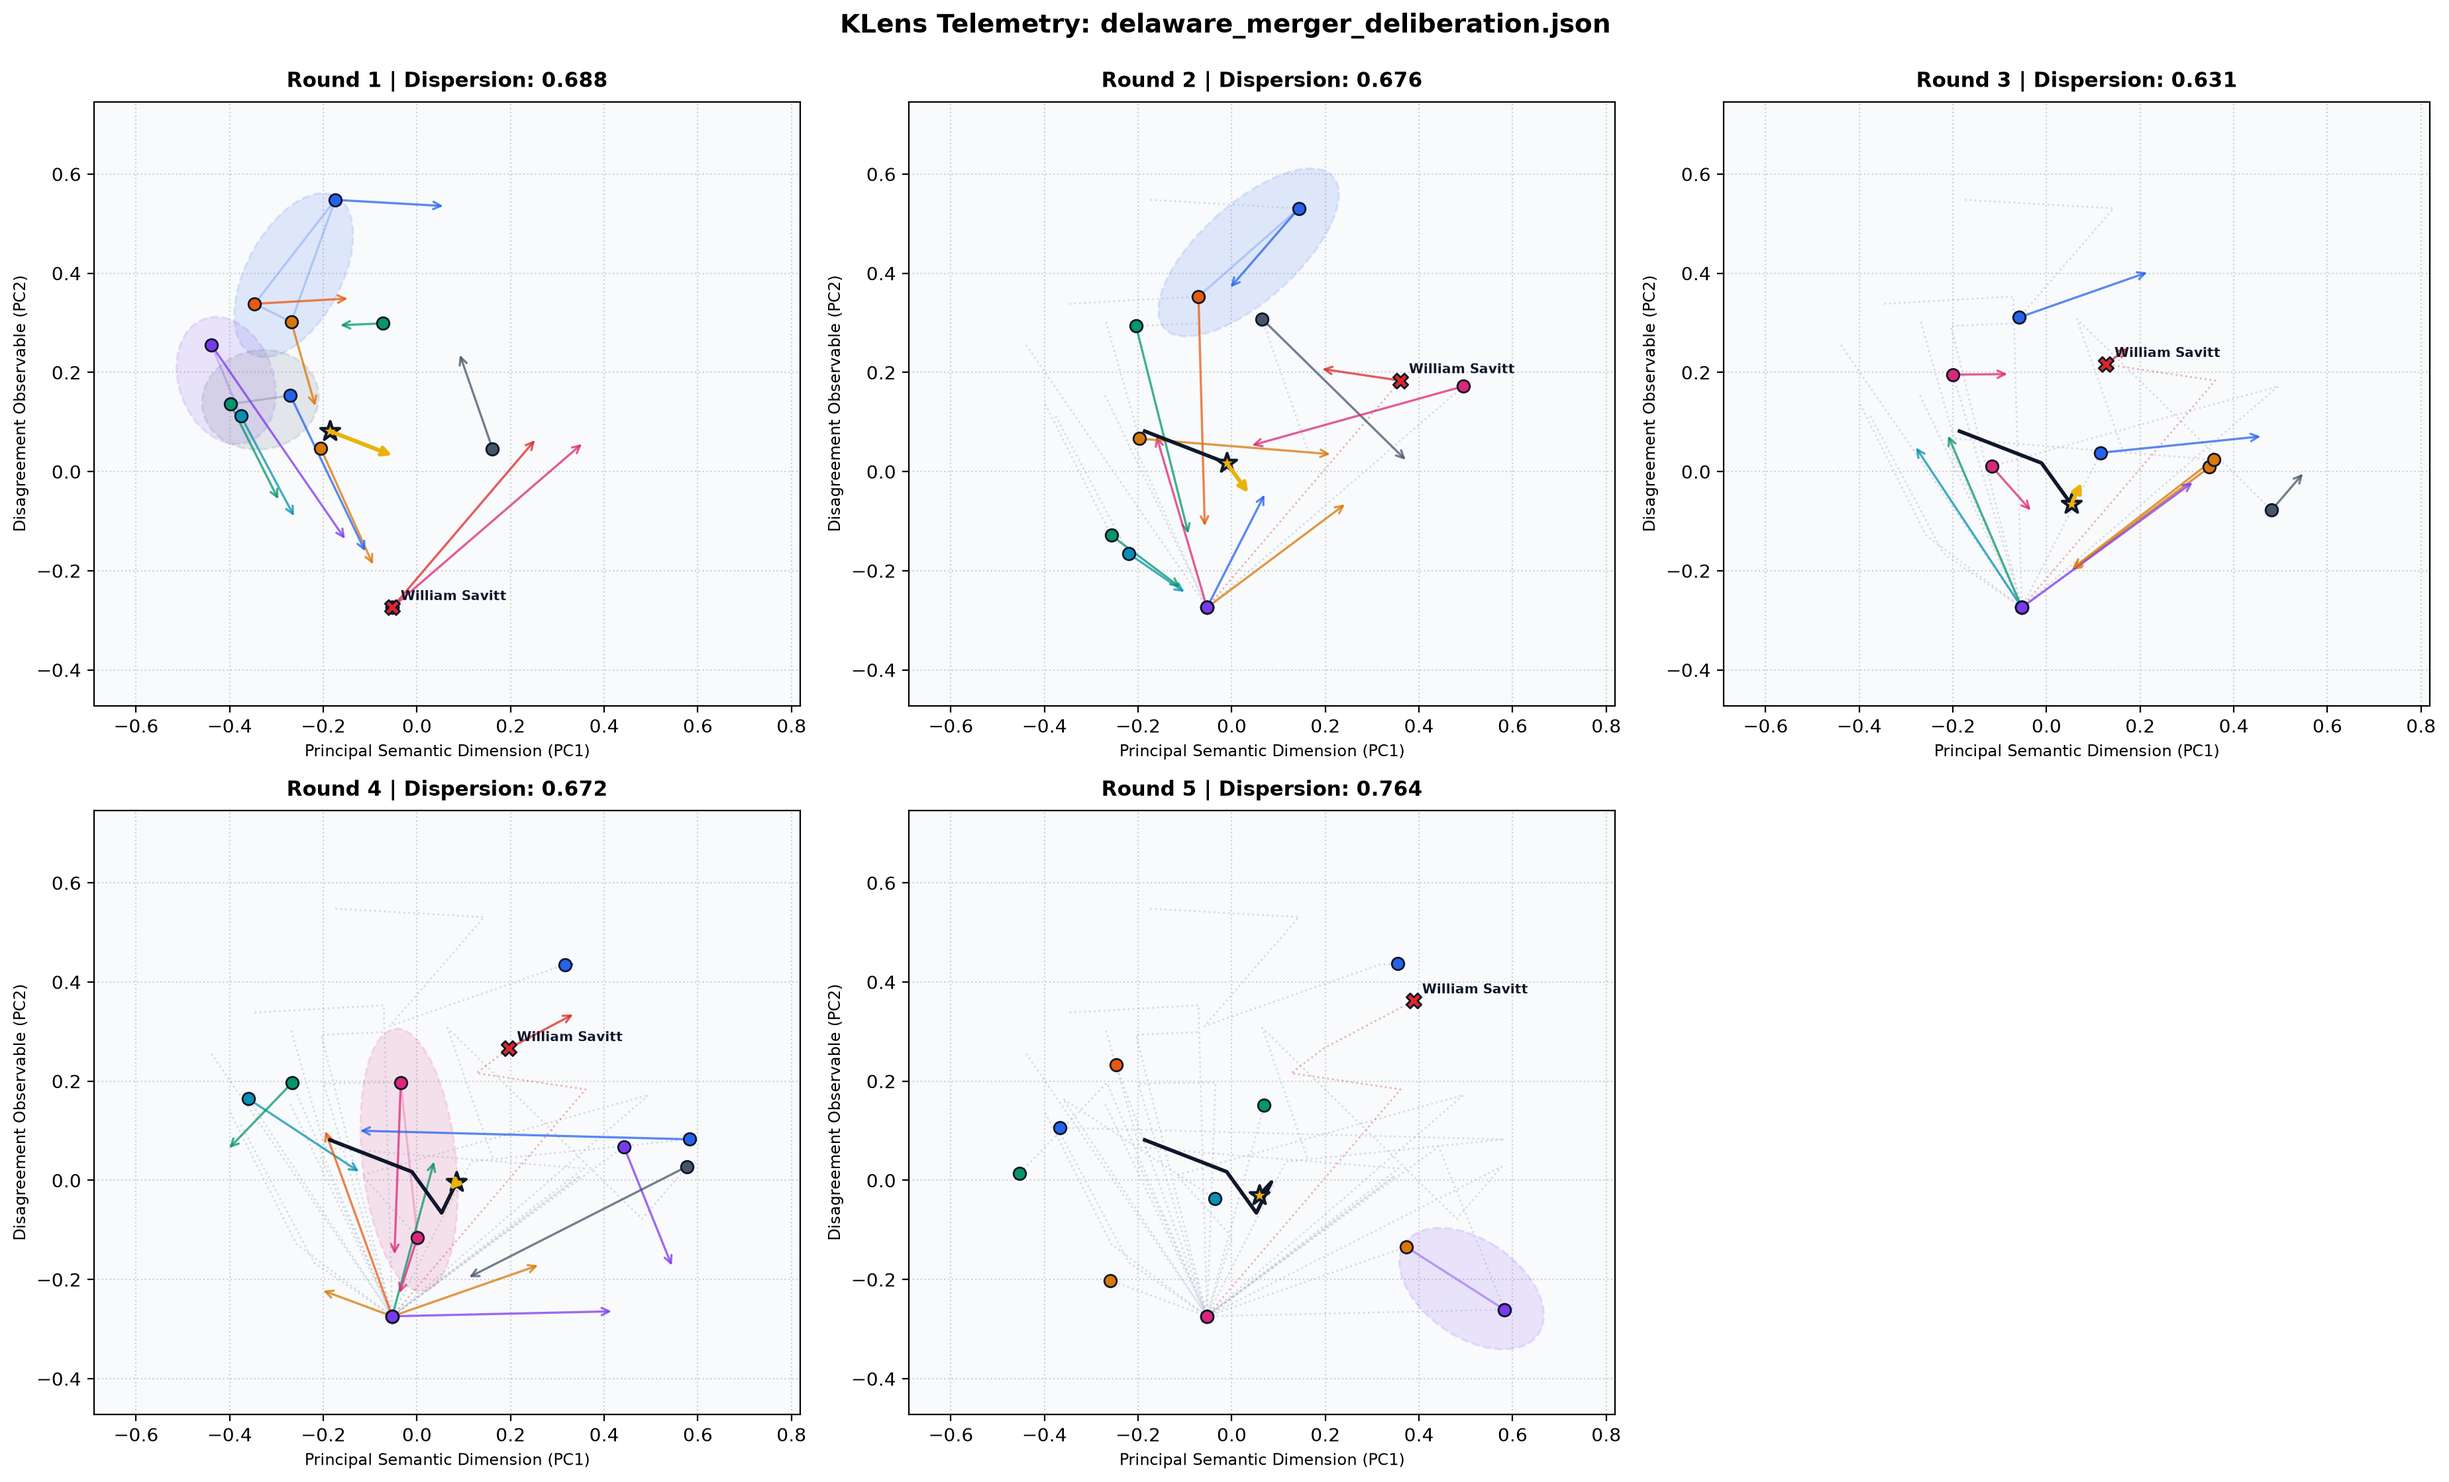
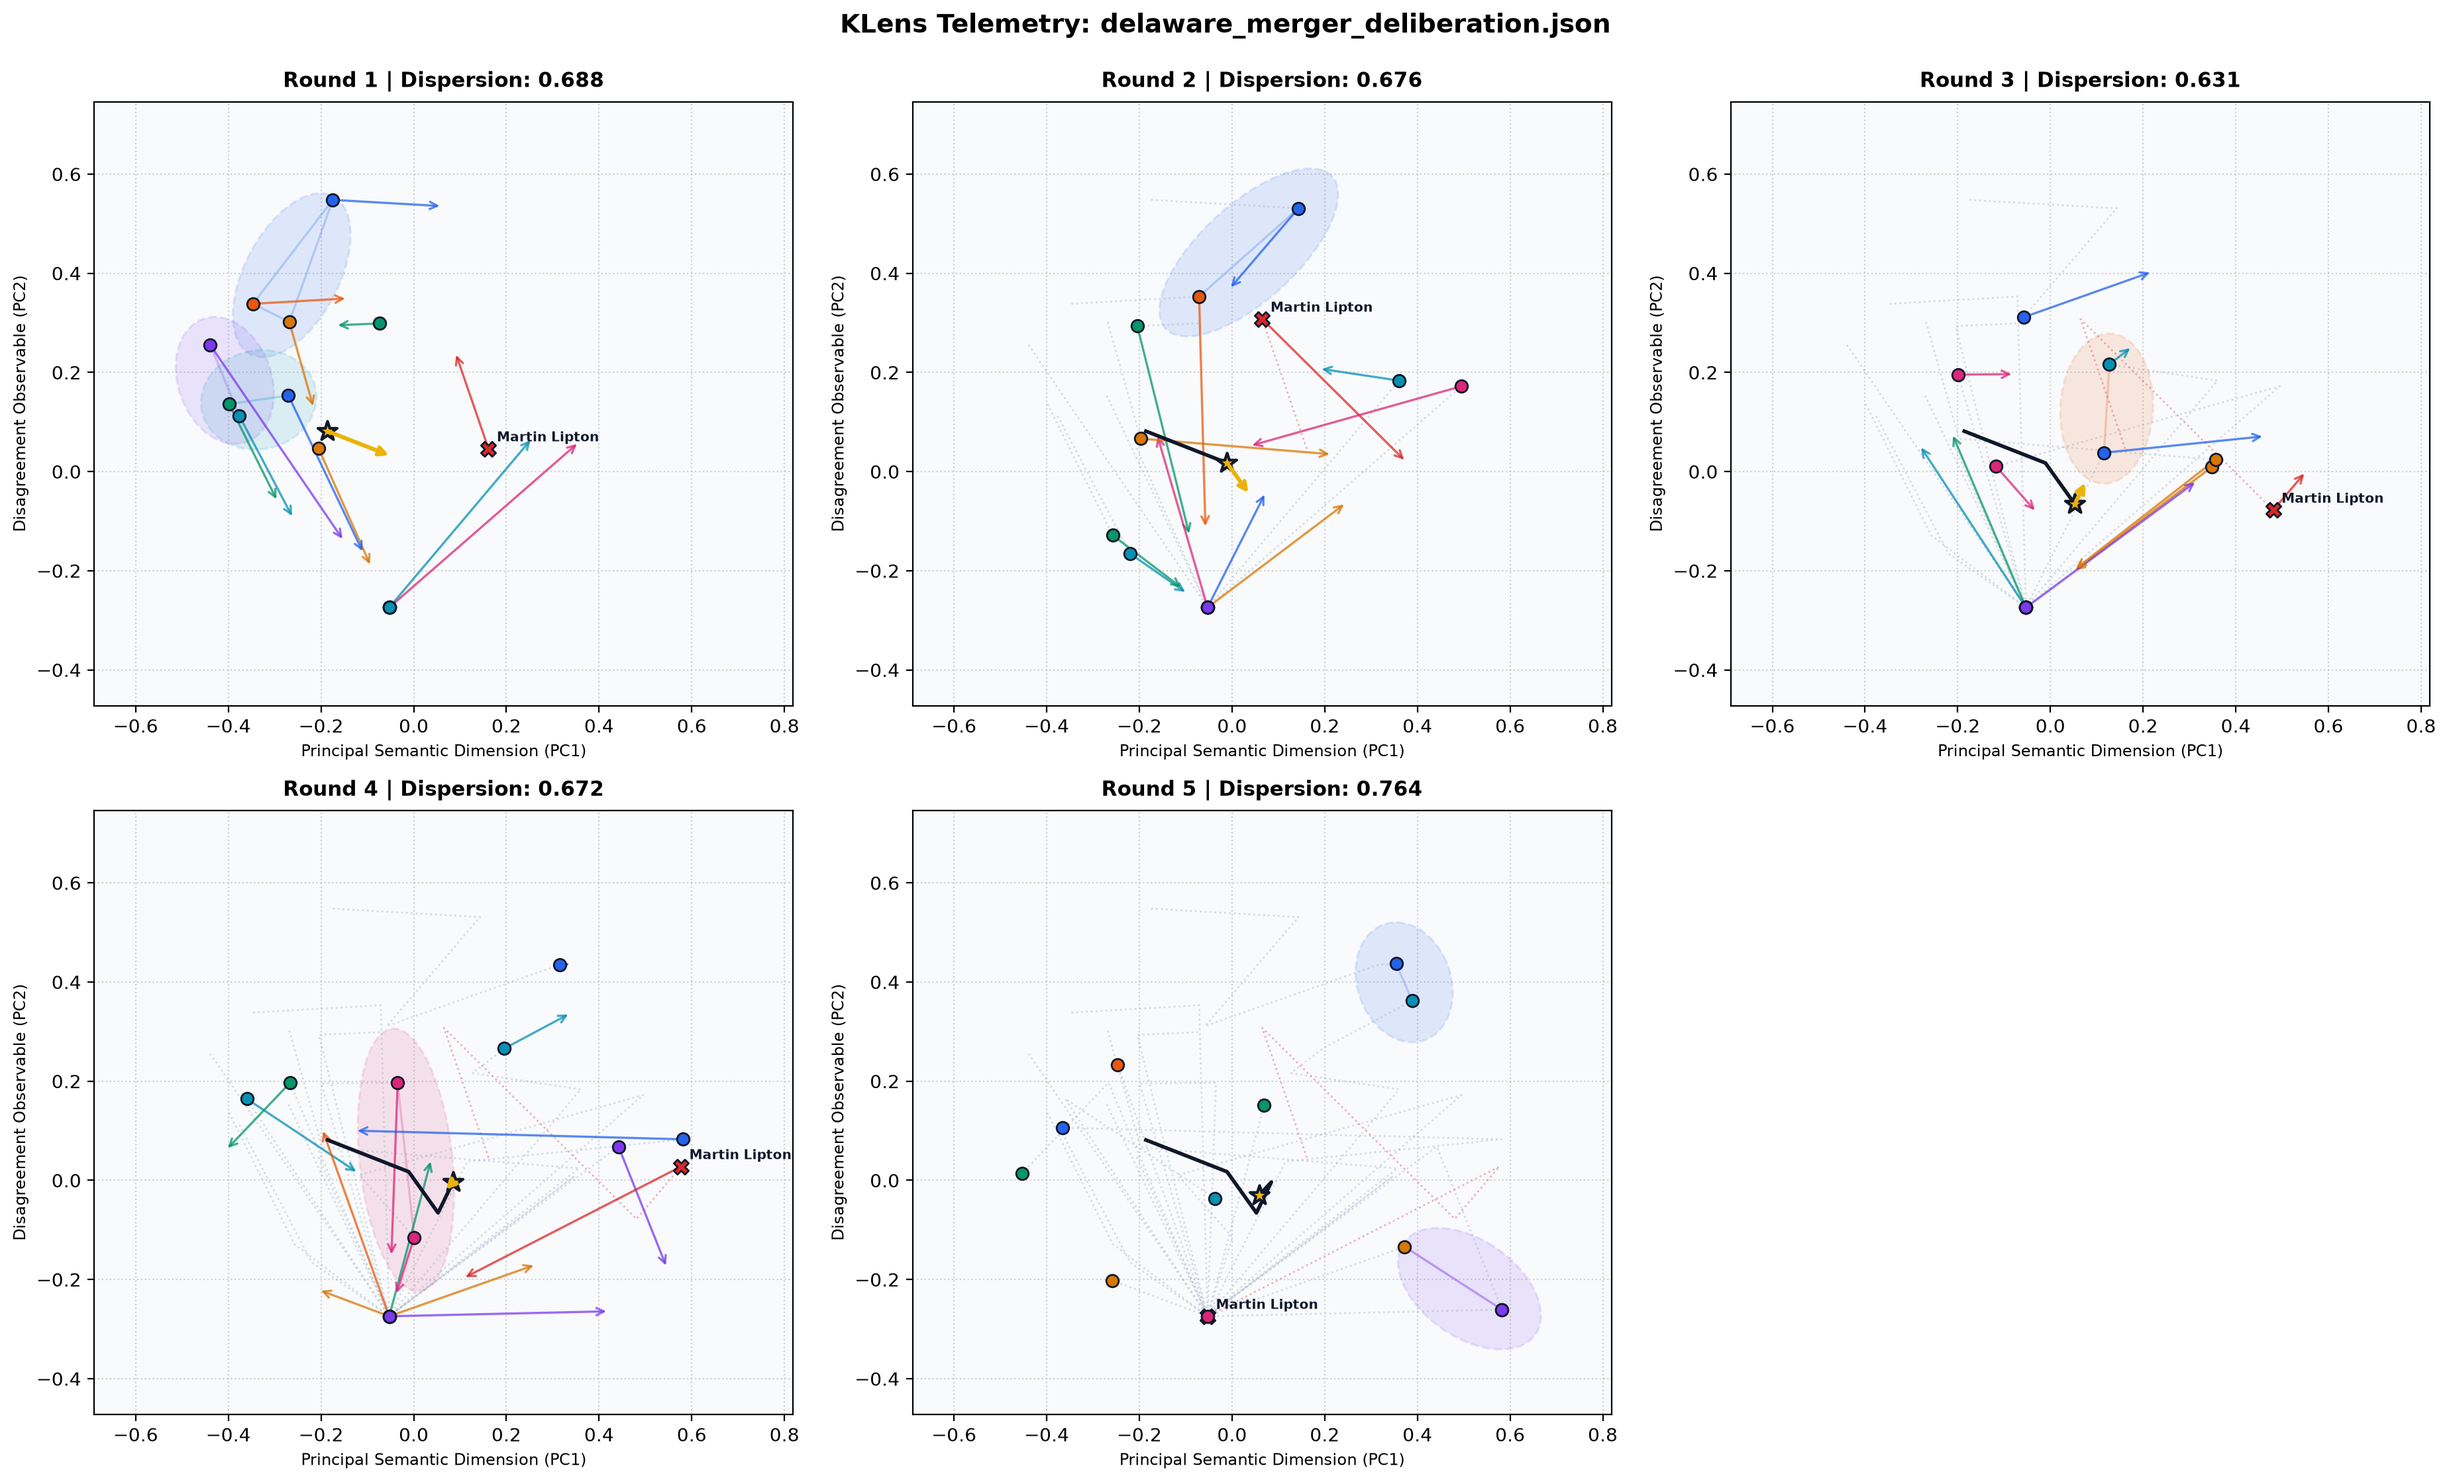
fix(vis): regenerate visual assets with Orthogonal terminology and update diagnostic title

diff --git a/src/klens/vis.py b/src/klens/vis.py
@@ -403,7 +403,7 @@ def render_spectral_dashboard(
             rounds=rounds,
             output_path=output_path,
             show=show,
-            title=title or "Multi-Agent Spectral Analysis: Faction Identification & Rogue Agent Detection",
+            title=title or "Multi-Agent Spectral Analysis: Faction Identification & Orthogonal Agent Detection",
             dpi=dpi,
         )
     elif style == "shortcut":
